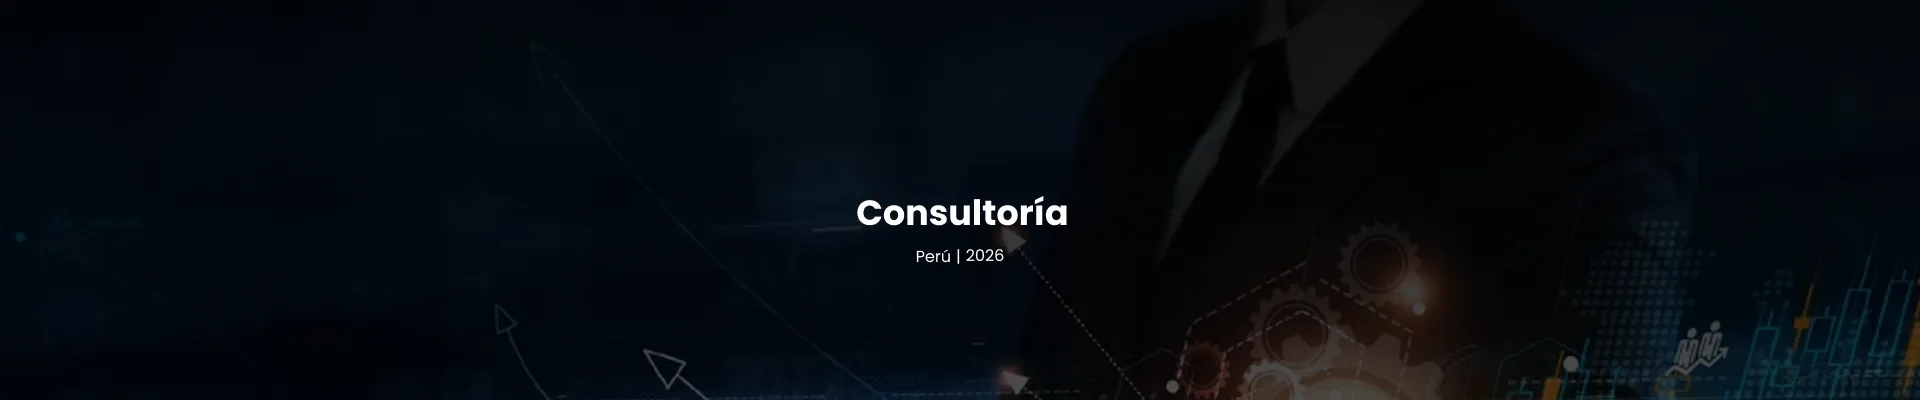
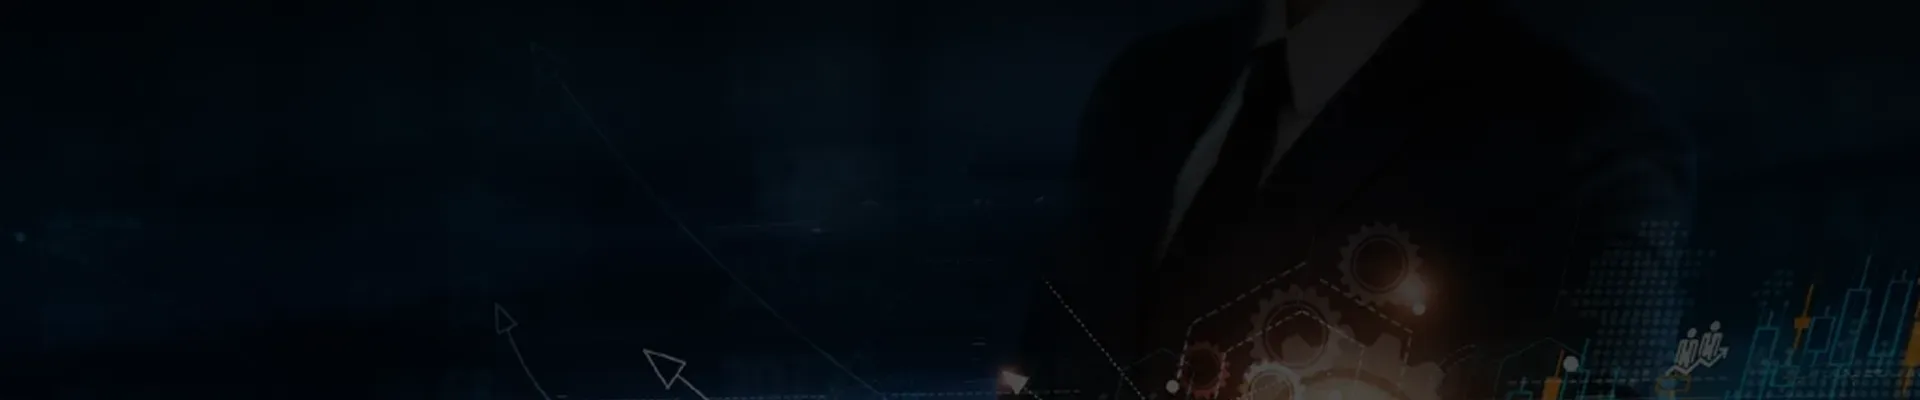
Foto nueva del CEO, un solo Contacto en el header e imágenes sin texto
- taya.jpg/webp: retrato profesional en avatar circular sobre el navy del
  sitio (mismo nombre: no requiere cambios en la BD).
- Header: se quita el enlace de texto "Contacto" duplicado; queda el
  botón. El botón ya no sobrescribe su nombre accesible (WCAG 2.5.3).
- hardware2026 y consultoria (jpg/webp): se borra el texto incrustado que
  chocaba con el de las tarjetas.

Verificado: verify-cms, fixtures, vitest 71/71, Playwright 100 ok contra
el paquete de producción.

Changed region(s): [[0.4375, 0.51, 0.5625, 0.66]]

diff --git a/frontend/src/app/components/header/header.html b/frontend/src/app/components/header/header.html
@@ -122,9 +122,6 @@
             />
           </li>
         }
-        <li>
-          <a [routerLink]="contactLink()" routerLinkActive="active" (click)="closeMobileMenu()" cmsText="nav.contacto" cmsScope="site"></a>
-        </li>
         <li class="lang">
           <i class="bi bi-globe lang-globe" aria-hidden="true"></i>
           @for (item of localeOptions; track item.id) {
@@ -132,7 +129,7 @@
           }
         </li>
         <li class="nav-cta">
-          <a publicBtn [routerLink]="contactLink()" routerLinkActive="active" (click)="closeMobileMenu()" [attr.aria-label]="isEnglish() ? 'Talk to a Matt Innova expert' : 'Hablar con un experto de Matt Innova'">
+          <a publicBtn [routerLink]="contactLink()" routerLinkActive="active" (click)="closeMobileMenu()">
             <svg class="ui-icon ui-icon--sm" aria-hidden="true"><use href="assets/icons/ui.svg#mail"></use></svg>
             <span cmsText="nav.contacto" cmsScope="site"></span>
           </a>

diff --git a/frontend/e2e/locale.spec.ts b/frontend/e2e/locale.spec.ts
@@ -114,7 +114,7 @@ test.describe('Idioma y sincronización con la URL', () => {
 
     // Navegar a Contacto en inglés mantiene el prefijo /en
     await openNavIfMobile(page);
-    await page.locator('app-header a[cmsText="nav.contacto"]').first().click();
+    await page.locator('app-header .nav-cta a').first().click();
     await expect(page).toHaveURL(/\/en\/contacto$/);
     await expect(page.locator('html')).toHaveAttribute('lang', 'en');
     await expect(page.locator('app-header a[cmsText="nav.inicio"]')).toHaveText('Home');
